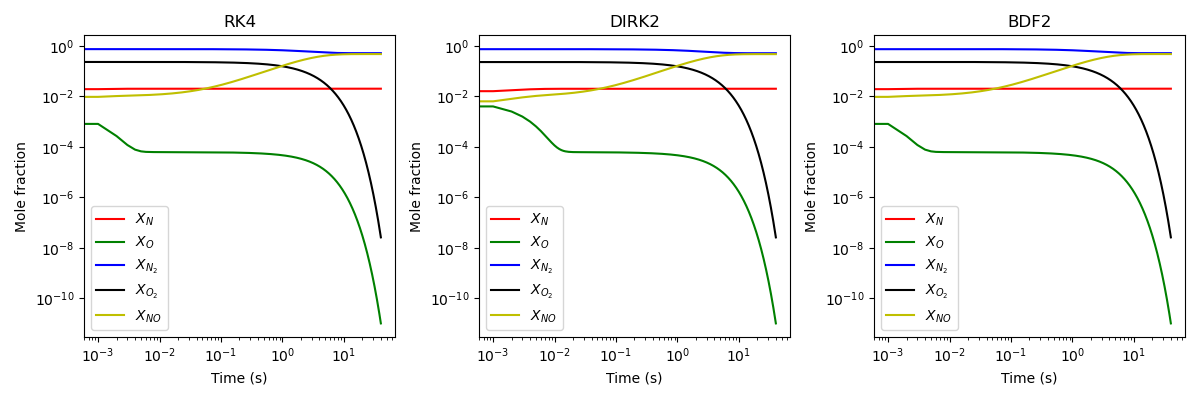
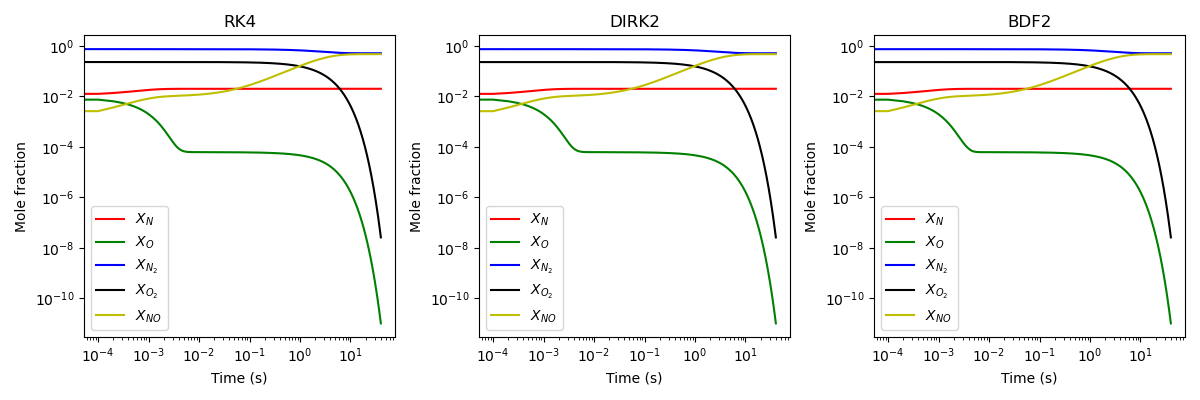
update p4

diff --git a/p4/main.py b/p4/main.py
@@ -50,6 +50,16 @@ def compute_Ju(u:np.array, k1:float, k2:float, k3:float):
     
     return J
 
+def adaptive_timestep(dt:float, ui:np.ndarray, uf:np.ndarray, eps_lower:float = 0.1, eps_upper:float = 1.0):
+    increment = np.max(np.abs(uf - ui) / (np.abs(ui) + 1e-12))
+    
+    if increment < eps_lower:
+        return 2.0 * dt
+    elif increment > eps_upper:
+        return 0.5 * dt
+    else:
+        return dt
+
 def RK4(u:np.ndarray, dt:float, func:Callable):
     k1 = func(u)
     k2 = func(u + 0.5 * dt * k1)
@@ -64,14 +74,25 @@ def DIRK2(u: np.ndarray, dt: float, func: Callable):
     uf = u + dt * func(u1)
     return uf
 
-def BDF2(u: np.ndarray, dt: float, func: Callable):
-    k1 = func(u)
-    k2 = func(u + 0.5 * dt * k1)
-    k3 = func(u + 0.5 * dt * k2)
-    k4 = func(u + dt * k3)
-    uf = u + 1 / 6 * dt * (k1 + 2 * k2 + 2 * k3 + k4)
-    return uf
+def BDF2(u: np.ndarray, u_prev:np.ndarray, dt: float, func: Callable, func_J:Callable, max_iter:int = 128, eps:float = 1e-12):
+    
+    def _g(x:np.ndarray):
+        return 3 * x - 2 * dt * func(x) - 4 * u + u_prev
+    
+    def _J(x:np.ndarray):
+        return np.eye(5) * 3 - 2 * dt * func_J(x)
 
+    uf = np.copy(u)
+    
+    for _ in range(max_iter):
+        
+        J = _J(uf)
+        uf = (uf.reshape(-1,1) - np.linalg.inv(J) @ _g(uf).reshape(-1,1)).reshape(-1)
+   
+        if np.sum(_g(uf) ** 2) < eps:
+            break
+        
+    return uf
 
 if __name__ == "__main__":
 
@@ -94,7 +115,7 @@ if __name__ == "__main__":
     print("ratio: ", ratio)
 
     # Problem 2. solve the evolution of the system
-    dt = 0.001
+    dt = 0.0001
     t = 0
     t_list = []
     tmax = 40.0
@@ -102,12 +123,14 @@ if __name__ == "__main__":
     u1 = np.copy(u_init)
     u2 = np.copy(u_init)
     u3 = np.copy(u_init)
+    u3_prev = None
 
     u1_list = []
     u2_list = []
     u3_list = []
 
     f = lambda x : compute_fu(x, k1, k2, k3)
+    J = lambda x: compute_Ju(x, k1, k2, k3)
 
     while t < tmax:
         t_list.append(t)
@@ -115,7 +138,14 @@ if __name__ == "__main__":
 
         u1 = RK4(u1, dt, f)
         u2 = DIRK2(u2, dt, f)
-        u3 = BDF2(u3, dt, f)
+
+        if u3_prev is None:
+            u3_prev = np.copy(u3)
+            u3 = RK4(u3, dt, f)
+        else:
+            u3_tmp = np.copy(u3)
+            u3 = BDF2(u3, u3_prev, dt, f, J, 128, 1e-12)
+            u3_prev = u3_tmp
 
         u1_list.append(u1.reshape(1,-1))
         u2_list.append(u2.reshape(1,-1))
@@ -168,3 +198,80 @@ if __name__ == "__main__":
 
     fig.tight_layout()
     fig.savefig("./p4_b.png")
+
+    # adaptive time-stepping
+    dt4 = 0.0001
+    dt5 = 0.0001
+    t4 = 0
+    t5 = 0
+    tmax = 40.0
+
+    u4 = np.copy(u_init)
+    u5 = np.copy(u_init)
+    u5_prev = None
+
+    t4_list = []
+    u4_list = []
+
+    t5_list = []
+    u5_list = []
+
+    # DIRK2 with adaptive time-stepping
+    while t4 < tmax:
+        t4_list.append(t4)
+        t4 += dt4
+
+        u4_prev = np.copy(u4)
+        u4 = DIRK2(u4, dt4, f)
+        u4_list.append(u4.reshape(1, -1))
+        dt4 = adaptive_timestep(dt4, u4_prev, u4, 0.1, 1.2)
+
+    while t5 < tmax:
+        t5_list.append(t5)
+        t5 += dt5
+
+        if u5_prev is None:
+            u5_prev = np.copy(u5)
+            u5 = RK4(u5, dt, f)
+        else:
+            u5_tmp = np.copy(u5)
+            u5 = BDF2(u5, u5_prev, dt, f, J, 128, 1e-12)
+            u5_prev = u5_tmp
+
+        u5_list.append(u5.reshape(1, -1))
+        dt5 = adaptive_timestep(dt5, u5_prev, u5, 0.1, 1.2)
+
+    tx4 = np.array(t4_list)
+    tx5 = np.array(t5_list)
+    u4 = np.concatenate(u4_list, axis=0)
+    u5 = np.concatenate(u5_list, axis=0)
+
+    fig, axes = plt.subplots(1, 2, figsize=(8, 4))
+    axes = axes.ravel()
+
+    axes[0].plot(tx4, u4[:, 0], "r", label=r"$X_{N}$")
+    axes[0].plot(tx4, u4[:, 1], "g", label=r"$X_{O}$")
+    axes[0].plot(tx4, u4[:, 2], "b", label=r"$X_{N_2}$")
+    axes[0].plot(tx4, u4[:, 3], "k", label=r"$X_{O_2}$")
+    axes[0].plot(tx4, u4[:, 4], "y", label=r"$X_{NO}$")
+    axes[0].set_xlabel("Time (s)")
+    axes[0].set_ylabel("Mole fraction")
+    axes[0].set_xscale("log")
+    axes[0].set_yscale("log")
+    axes[0].legend(loc="lower left")
+    axes[0].set_title(r"DIRK2: adaptive-timestepping")
+
+    axes[1].plot(tx5, u5[:, 0], "r", label=r"$X_{N}$")
+    axes[1].plot(tx5, u5[:, 1], "g", label=r"$X_{O}$")
+    axes[1].plot(tx5, u5[:, 2], "b", label=r"$X_{N_2}$")
+    axes[1].plot(tx5, u5[:, 3], "k", label=r"$X_{O_2}$")
+    axes[1].plot(tx5, u5[:, 4], "y", label=r"$X_{NO}$")
+    axes[1].set_xlabel("Time (s)")
+    axes[1].set_ylabel("Mole fraction")
+    axes[1].set_xscale("log")
+    axes[1].set_yscale("log")
+    axes[1].legend(loc="lower left")
+    axes[1].set_title(r"BDF2: adaptive-timestepping")
+
+    fig.tight_layout()
+    fig.savefig("./p4_b_adaptive_time.png")
